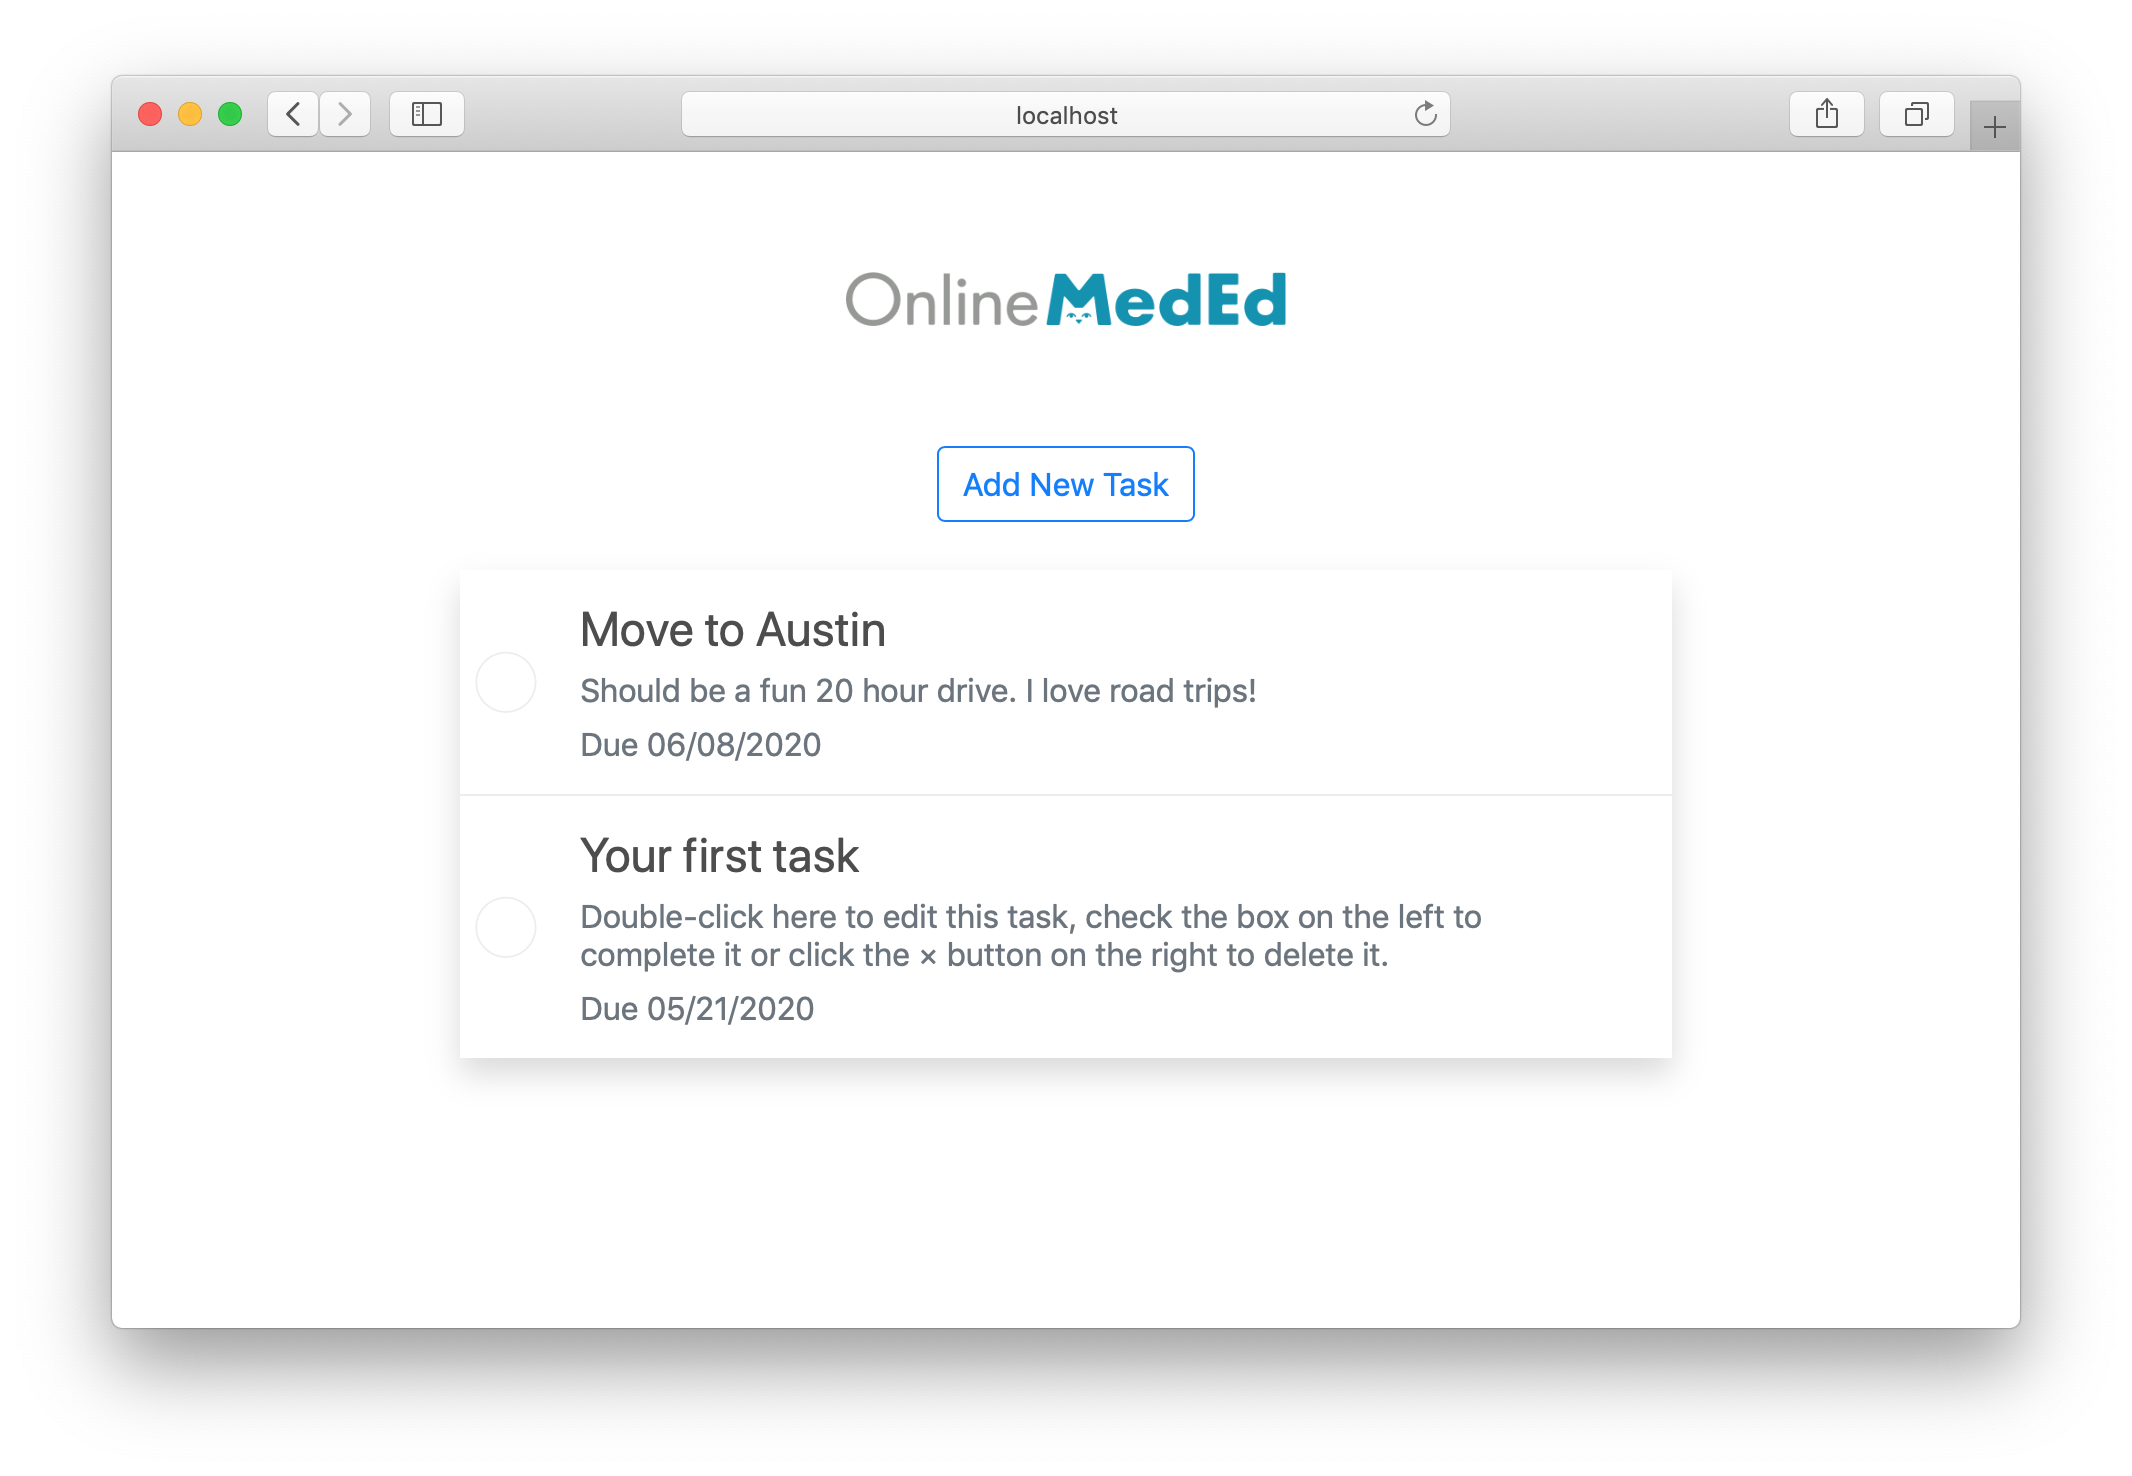
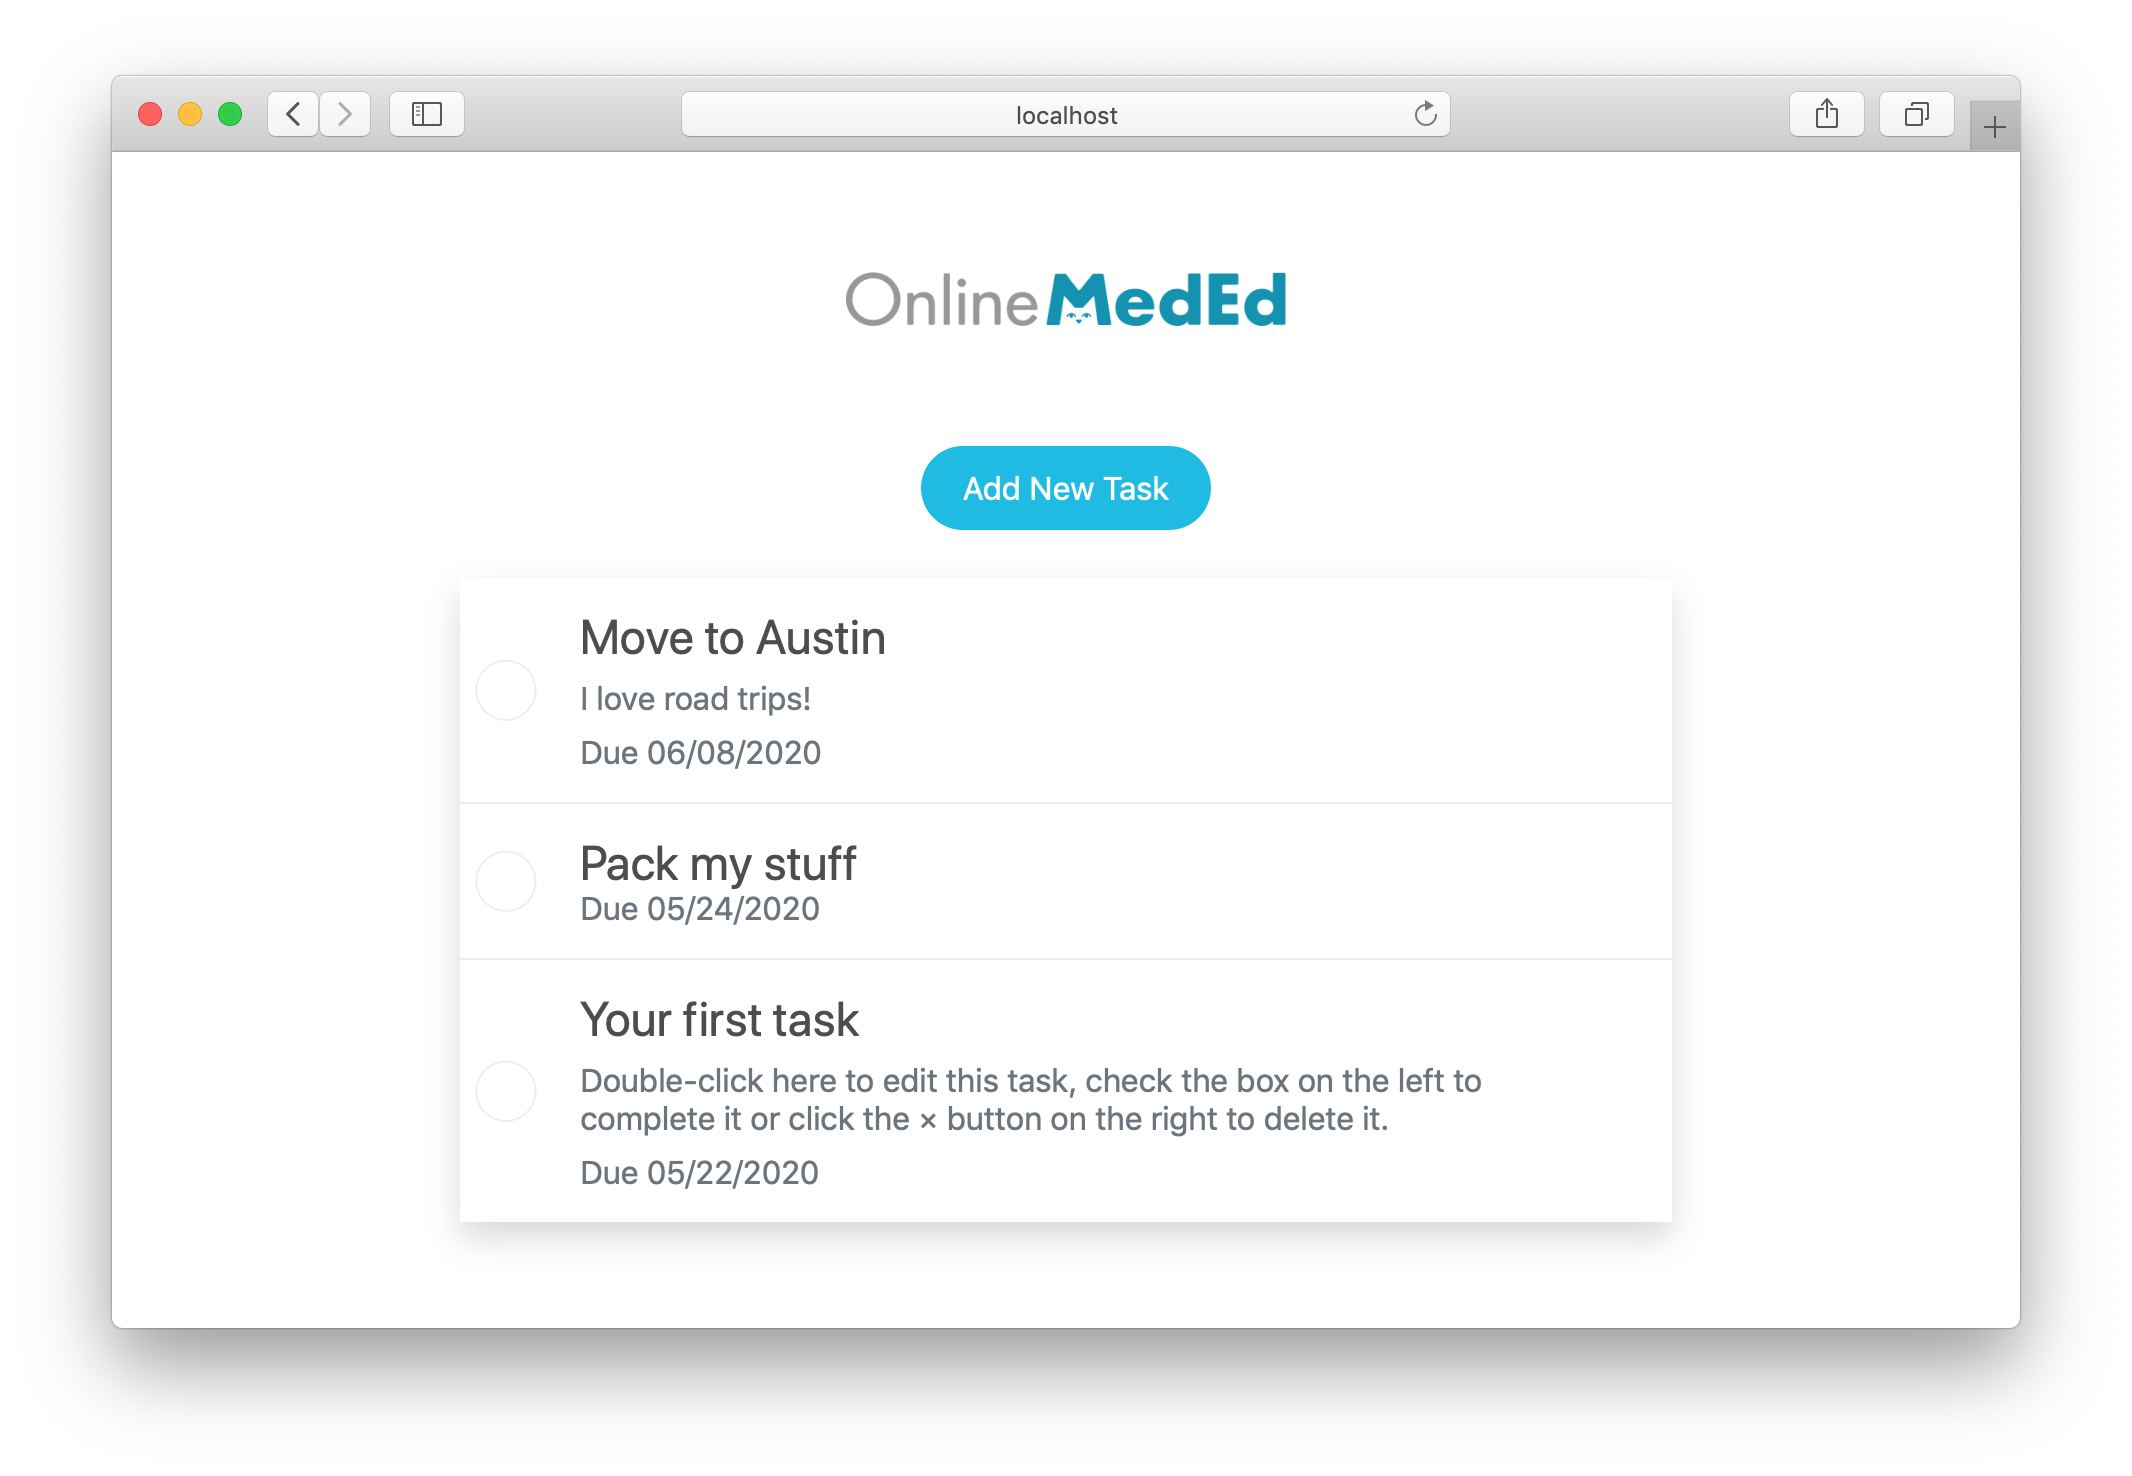
cosmetic changes

diff --git a/src/TodoList/EditForm.js b/src/TodoList/EditForm.js
@@ -63,7 +63,7 @@ export const EditForm = observer(({ todo, onClose }: Props) => {
         <Button variant="default" onClick={close}>
           Cancel
         </Button>
-        <Button className="ml-3" variant="primary" type="submit">
+        <Button className="ml-3" variant="round" type="submit">
           {todo ? 'Update' : 'Add Task'}
         </Button>
       </div>

diff --git a/src/TodoList/AddTodo.js b/src/TodoList/AddTodo.js
@@ -13,7 +13,7 @@ export const AddTodo = observer(() => {
     <section className="mb-4 text-center">
       {isFormVisible
         ? <EditForm onClose={toggleForm} />
-        : <Button variant="outline-primary" onClick={toggleForm}>Add New Task</Button>}
+        : <Button variant="round" onClick={toggleForm}>Add New Task</Button>}
     </section>
   );
 });

diff --git a/src/index.js b/src/index.js
@@ -1,8 +1,8 @@
 import React from 'react';
 import ReactDOM from 'react-dom';
-import App from './App';
-import * as serviceWorker from './serviceWorker';
 import 'bootstrap/dist/css/bootstrap.min.css';
+import * as serviceWorker from './serviceWorker';
+import App from './App';
 
 ReactDOM.render(
   <React.StrictMode>

diff --git a/src/TodoList/TodoList.css b/src/TodoList/TodoList.css
@@ -110,6 +110,13 @@
     display: block;
 }
 
+.btn-round, .btn-round:hover, .btn-round:active {
+    border-radius: 100px;
+    color: white;
+    background-color: #03bbe4;
+    padding: .5rem 1.25rem;
+}
+
 .react-datepicker-wrapper {
     display: block !important;
 }
